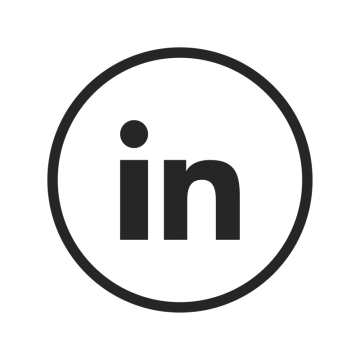
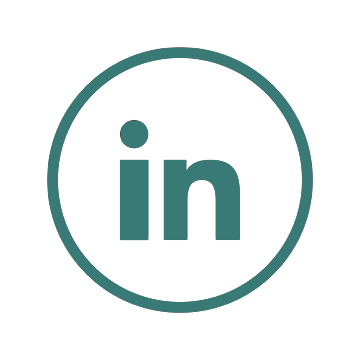
profile update

Changed region(s): [[0.1222, 0.1222, 0.8861, 0.8861], [0.4583, 0.4278, 0.6722, 0.6722], [0.3361, 0.3361, 0.4278, 0.6722]]

diff --git a/portfolio.html b/portfolio.html
@@ -99,7 +99,7 @@
       <div class="col-sm-5">
 <div class="float-right">
     <div class="card">
-        <div class="card-header text-center">
+        <div class="card-header text-center info-head">
           Contact Information
         </div>
         <div class="card-body">
@@ -110,7 +110,7 @@
            
                   <img src="assets/images/github.png" alt="github profile" height="60px" width="60px">
                   
-                    <p>GitHub</p>
+                    <p class="text-center links">GitHub</p>
                   </a>
 
             </div>
@@ -119,7 +119,7 @@
            
                   <img src="assets/images/linkedin.png" alt="linkedin" height="60px" width="60px">
                   
-                    <p>LinkedIn</p>
+                    <p class="text-center links">LinkedIn</p>
                   </a>
 
             </div>
@@ -129,7 +129,7 @@
            
                   <img src="assets/images/email.png" alt="email" height="60px" width="60px">
                   
-                    <p>Email</p>
+                    <p class="text-center links">Email</p>
                   </a>
             </div>
           </div>

diff --git a/assets/css/portfolio.css b/assets/css/portfolio.css
@@ -42,6 +42,16 @@
 
 
 }
+.info-head{
+    background-color: #397A76;
+    color:white;
+    font-weight: 500;
+}
+
+.links{
+    color: darkslategrey;
+    font-weight: 400;
+}
 
 /*Media Information */
 
